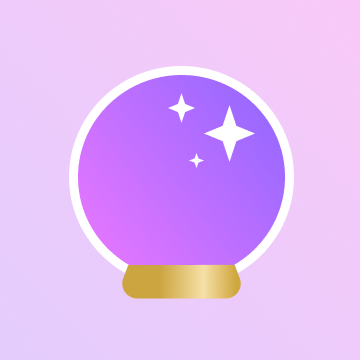
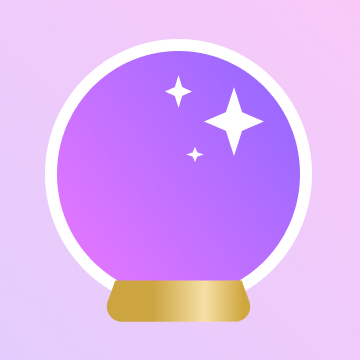
update assets

Changed region(s): [[0.1222, 0.0917, 0.8861, 0.9167], [0.5194, 0.3972, 0.5806, 0.4583]]

diff --git a/app/components/WelcomeModal.js b/app/components/WelcomeModal.js
@@ -128,9 +128,9 @@ export default function WelcomeModal({ newUser }) {
             <View style={{ alignItems: "center" }}>
               <Image
                 source={CrystalBall}
-                height={100}
-                width={100}
-                style={{ width: 80, height: 80, borderRadius: 20 }}
+                height={80}
+                width={80}
+                style={{ width: 70, height: 70, borderRadius: 20 }}
               />
             </View>
             <Text style={styles.welcomeText}>someday</Text>
